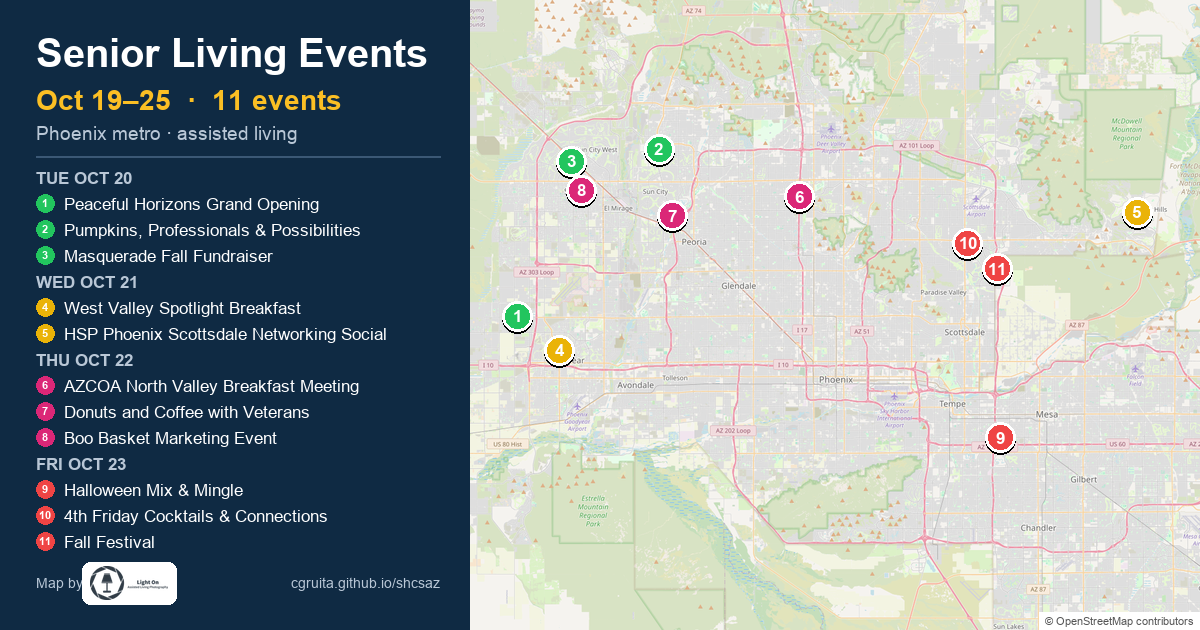
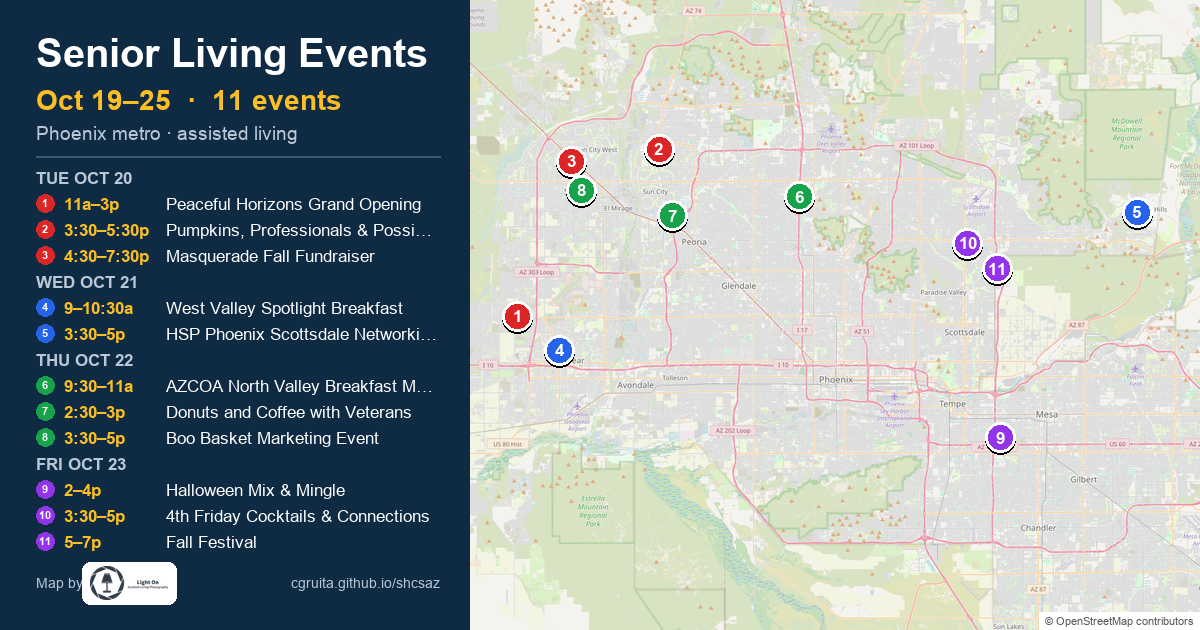
Distinct day colors; Light On strip in table

diff --git a/index.html b/index.html
@@ -9,13 +9,13 @@
   <meta property="og:title" content="Senior Living Events · Oct 19–25" />
   <meta property="og:description" content="Oct 19–25 · 11 assisted living events across the Valley" />
   <meta property="og:url" content="https://cgruita.github.io/shcsaz/" />
-  <meta property="og:image" content="https://cgruita.github.io/shcsaz/images/preview.png?v=2026-10-19-4" />
+  <meta property="og:image" content="https://cgruita.github.io/shcsaz/images/preview.png?v=2026-10-19-5" />
   <meta property="og:image:width" content="1200" />
   <meta property="og:image:height" content="630" />
   <meta name="twitter:card" content="summary_large_image" />
   <meta name="twitter:title" content="Senior Living Events · Oct 19–25" />
   <meta name="twitter:description" content="Oct 19–25 · 11 assisted living events across the Valley" />
-  <meta name="twitter:image" content="https://cgruita.github.io/shcsaz/images/preview.png?v=2026-10-19-4" />
+  <meta name="twitter:image" content="https://cgruita.github.io/shcsaz/images/preview.png?v=2026-10-19-5" />
   <!-- og:end -->
   <meta name="viewport" content="width=device-width, initial-scale=1" />
   <link href="https://api.mapbox.com/mapbox-gl-js/v3.6.0/mapbox-gl.css" rel="stylesheet" />
@@ -32,10 +32,6 @@
       <button type="button" data-view="split" role="tab" aria-selected="false">Split</button>
       <button type="button" data-view="table" role="tab" aria-selected="false">Table</button>
     </div>
-    <a class="credit" href="https://lightonhomes.com" target="_blank" rel="noopener" aria-label="Map by Light On (opens in new tab)">
-      <span>Map by</span>
-      <img class="credit-logo" src="images/light-on-logo.png" width="74" height="32" alt="Light On – Assisted Living Photography" />
-    </a>
   </header>
 
   <div class="split" id="split" data-view="map">

diff --git a/css/styles.css b/css/styles.css
@@ -664,32 +664,28 @@ header p {
   display: block !important;
 }
 
-/* Quiet "Map by" credit, top-right of header */
-header .credit {
-  position: absolute;
-  top: 0.75rem;
-  right: 1rem;
+/* Light On credit strip, top of the list/table panel */
+.credit-strip {
   display: flex;
   align-items: center;
-  gap: 6px;
-  font-size: 0.7rem;
-  color: #8fa3b8;
-  opacity: 0.85;
+  justify-content: center;
+  gap: 8px;
+  padding: 6px 12px;
+  margin: 0 0 8px;
+  background: #0f2a43;
+  border-radius: 8px;
+  color: #b9c7d6;
+  font-size: 0.75rem;
+  letter-spacing: 0.03em;
   text-decoration: none;
 }
-header .credit:hover { opacity: 1; }
-header .credit-logo {
+.credit-strip:hover { background: #17395a; color: #fff; }
+.credit-strip img {
   display: block;
-  height: 32px;
+  height: 40px;
   width: auto;
-  padding: 3px 8px;
-  background: rgba(255, 255, 255, 0.9);
+  padding: 2px 8px;
+  background: #fff;
   border-radius: 999px;
 }
-@media (max-width: 640px) {
-  header .credit {
-    position: static;
-    margin-top: 0.5rem;
-  }
-  header .credit-logo { height: 28px; }
-}
+.split[data-view="split"] #event-table-view .credit-strip { display: none; }

diff --git a/js/map.js b/js/map.js
@@ -367,6 +367,8 @@ function updateGlLabelFilter() {
   map.setFilter("event-labels", glPopupId ? ["!=", ["get", "id"], glPopupId] : null);
 }
 
+const CREDIT_STRIP = `<a class="credit-strip" href="https://lightonhomes.com" target="_blank" rel="noopener" aria-label="Map by Light On (opens in new tab)"><span>Map by</span><img src="images/light-on-logo.png" height="28" alt="Light On – Assisted Living Photography" /></a>`;
+
 function renderEventList(features) {
   const list = document.getElementById("event-list");
   const sorted = [...features].sort(compareEvents);
@@ -383,7 +385,7 @@ function renderEventList(features) {
     daysByDate.get(date).features.push(feature);
   }
 
-  list.innerHTML = days
+  list.innerHTML = CREDIT_STRIP + days
     .map((day) => {
       const dayLabel = new Date(`${day.date}T00:00:00`).toLocaleDateString("en-US", {
         weekday: "long",
@@ -505,6 +507,7 @@ function renderTable(features) {
   }).join("");
 
   container.innerHTML = `
+    ${CREDIT_STRIP}
     <div class="table-toolbar">
       <label>Category
         <select id="filter-category">

diff --git a/js/config.js b/js/config.js
@@ -1,2 +1,2 @@
 const MAPBOX_TOKEN = "pk.eyJ1IjoiY2dydWl0YSIsImEiOiJjbXRhanNoYzkwMGRrMndvYnQ5OWFvcHZoIn0.IXzPp--fY9nrZjRw5MfD2A";
-const MAP_VERSION = "2026-10-19-4";
+const MAP_VERSION = "2026-10-19-5";

diff --git a/scripts/build_preview.py b/scripts/build_preview.py
@@ -27,6 +27,24 @@ def font(name, size):
     return ImageFont.load_default(size)
 
 
+def _t(t):
+    m = re.match(r"\s*(\d{1,2})(?::(\d{2}))?\s*([AaPp])", t or "")
+    if not m:
+        return None
+    h, mm, ap = m.group(1), m.group(2), m.group(3).lower()
+    return (h + (":" + mm if mm and mm != "00" else "")), ap
+
+
+def short_time(p, with_end=True):
+    s = _t(p.get("start_time"))
+    if not s:
+        return ""
+    e = _t(p.get("end_time")) if with_end else None
+    if not e:
+        return s[0] + s[1]
+    return (s[0] if s[1] == e[1] else s[0] + s[1]) + "–" + e[0] + e[1]
+
+
 def lonlat_px(lon, lat, z):
     n = 256 * 2 ** z
     x = (lon + 180) / 360 * n
@@ -144,6 +162,7 @@ def build_preview():
     lh = max(18, min(30, avail // max(rows, 1)))
     nf, df = font("Arial.ttf", lh - 9), font("Arial Bold.ttf", lh - 9)
     y = 168
+    tcol = d.textlength("10:30–11:30a", font=df) * 0 + d.textlength("12:30–4:30p", font=df)
     for ds, evs in days.items():
         dt = datetime.date.fromisoformat(ds)
         d.text((x0, y), f"{dt:%a} {dt:%b} {dt.day}".upper(), font=df, fill=MUTED)
@@ -152,7 +171,12 @@ def build_preview():
             cy = y + (lh - 9) // 2 + 1
             d.ellipse((x0, cy - 9, x0 + 18, cy + 9), fill=p["color"])
             d.text((x0 + 9, cy), str(i), font=font("Arial Bold.ttf", 11), fill="white", anchor="mm")
-            d.text((x0 + 28, y), fit(d, p["name"], nf, PANEL - x0 - 60), font=nf, fill="white")
+            tx = x0 + 28
+            t = short_time(p)
+            if d.textlength(t, font=df) > tcol:
+                t = short_time(p, with_end=False)
+            d.text((tx, y), t, font=df, fill="#fbbf24")
+            d.text((tx + tcol + 8, y), fit(d, p["name"], nf, PANEL - tx - tcol - 38), font=nf, fill="white")
             y += lh
 
     # credit

diff --git a/scripts/build_events.py b/scripts/build_events.py
@@ -19,13 +19,13 @@ import fetch_events
 import geocode as geocode_module
 
 WEEKDAY_COLORS = {
-    "Monday": "#6366F1",
-    "Tuesday": "#22C55E",
-    "Wednesday": "#EAB308",
-    "Thursday": "#DB2777",
-    "Friday": "#EF4444",
-    "Saturday": "#A855F7",
-    "Sunday": "#6B7280",
+    "Monday": "#0891B2",     # teal
+    "Tuesday": "#DC2626",    # red
+    "Wednesday": "#2563EB",  # blue
+    "Thursday": "#16A34A",   # green
+    "Friday": "#9333EA",     # purple
+    "Saturday": "#D97706",   # amber
+    "Sunday": "#6B7280",     # gray
 }
 
 CATEGORIES = ["Networking", "Open House", "Ribbon Cutting", "Misc"]
